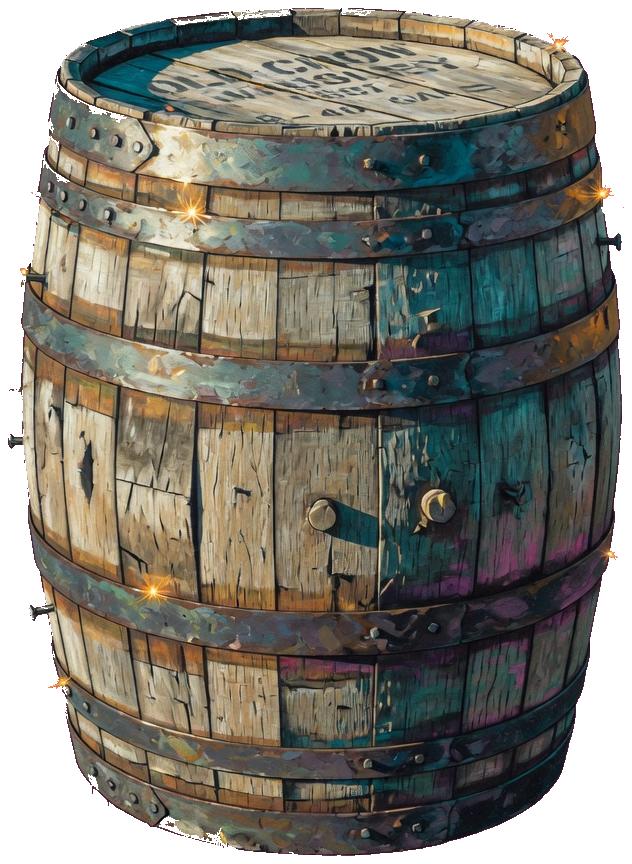
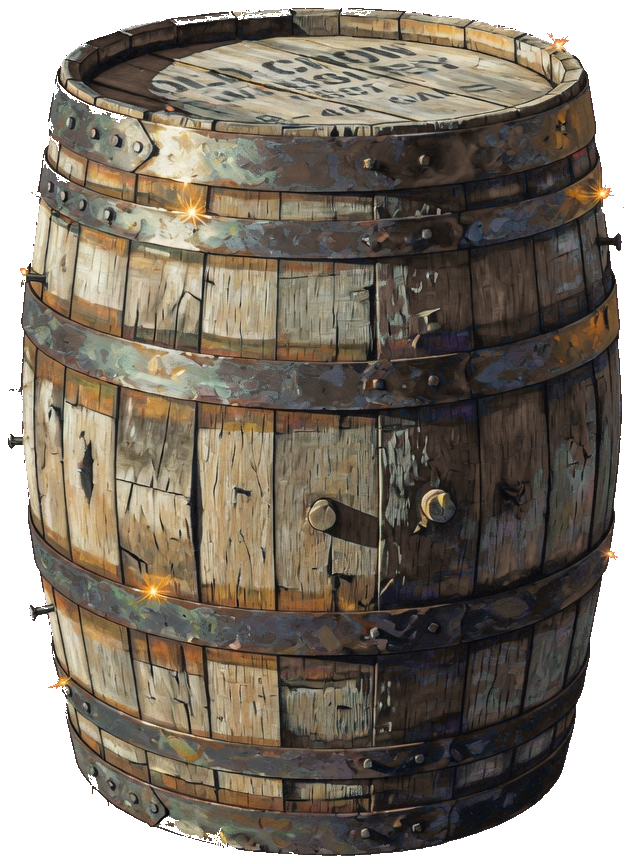
Hands-on tutorial for the draw and the bank shot; ground the outlaws; tame garish sprite colours
- Ghost thumb demo on streets I and II; nobody draws until you touch
- WILL HIT label drawn on the target while aiming
- Backdrops framed so the street meets the outlaws' boots
- Magenta/teal/neon-orange pulled out of props and outlaw sprites (originals in assets/_orig)

diff --git a/js/game.js b/js/game.js
@@ -189,6 +189,7 @@
     stash: null,
     installPrompt: null,
     coached: false,
+    bounceCoached: false,
     gunsmith: "blued",
     tumbleweeds: [],
     tumbleweedTimer: 3.2,
@@ -222,6 +223,7 @@
       state.stars = Array.isArray(s.stars) ? s.stars : [];
       if (s.run && typeof s.run.level === "number") state.run = s.run;
       state.coached = !!(s.coached || (s.unlocked || 0) > 0);
+      state.bounceCoached = !!(s.bounceCoached || (s.unlocked || 0) > 1);
       state.gunsmith = localStorage.getItem("gw.save.gunsmith") || "blued";
       state.bounty.highBounty = parseInt(localStorage.getItem("gw.save.bounty") || "0", 10);
       state.stats = s.stats && typeof s.stats === "object" ? s.stats : {};
@@ -292,6 +294,7 @@
           stars: state.stars,
           run: state.run,
           coached: state.coached,
+          bounceCoached: state.bounceCoached,
           stats: state.stats,
           posters: state.posters,
           daily: state.dailySave,
@@ -1391,18 +1394,31 @@
   }
 
   function needsCoach() {
-    return !state.coached && !state.replay && state.level === 0;
+    return !state.daily && !state.replay && ((!state.coached && state.level === 0) || needsBounceCoach());
+  }
+
+  // Street II teaches the bank shot the same way street I teaches the draw.
+  function needsBounceCoach() {
+    return !state.bounceCoached && !state.daily && !state.replay && state.level === 1;
   }
 
   function markCoached() {
-    if (state.coached) return;
+    if (state.coached && !needsBounceCoach()) return;
+    if (state.level === 1) state.bounceCoached = true;
     state.coached = true;
     save();
   }
 
   function showCoach(on) {
     const el = $("coach");
-    if (el) el.hidden = !on;
+    if (!el) return;
+    el.hidden = !on;
+    if (!on) return;
+    const bounce = needsBounceCoach();
+    $("coach-title").textContent = bounce ? "BOUNCE IT" : "HOLD AND DRAG";
+    $("coach-sub").textContent = bounce
+      ? "The crate blocks a straight shot. Drag the line onto the pan and it bounces into him."
+      : "Put your thumb down and drag the gold line onto the outlaw. Let go to shoot.";
   }
 
   function goHome() {
@@ -1852,7 +1868,8 @@
       audio.stopHeart();
     }
 
-    if ((state.mode === "fight" || state.mode === "bounty") && !state.bullet && $("overlay-how").hidden) {
+    // Nobody draws on you while the lesson is still on screen.
+    if ((state.mode === "fight" || state.mode === "bounty") && !state.bullet && $("overlay-how").hidden && !needsCoach()) {
       for (const e of living()) {
         if (e.hidden) continue;
         e.drawT += wdt;
@@ -2051,7 +2068,7 @@
     ctx.save();
     ctx.translate(farX, farY);
     const bg = gimg(L.bg);
-    if (bg) ctx.drawImage(bg, -36, -36, VW + 72, VH + 72);
+    if (bg) drawStreetBg(bg);
     else {
       const g = ctx.createLinearGradient(0, 0, 0, VH);
       g.addColorStop(0, "#6a3118");
@@ -2092,6 +2109,28 @@
     ctx.strokeStyle = "rgba(232, 195, 106, 0.12)";
     ctx.lineWidth = 2;
     ctx.strokeRect(10, 10, VW - 20, VH - 20);
+  }
+
+  // The painted streets put the horizon mid-screen, but the outlaws stand in
+  // the top third. Zoom the backdrop so the far end of the street rises to
+  // meet their boots instead of leaving them standing on the sky.
+  // zoom: how far to blow the painting up; horizon: its height in the
+  // painting (0..1); ground: where that horizon lands on the 1280 stage.
+  const BG_FRAME = {
+    street: { zoom: 1.36, horizon: 0.41, ground: 300 },
+    saloon: { zoom: 1.36, horizon: 0.41, ground: 300 },
+    gallows: { zoom: 1.36, horizon: 0.41, ground: 300 },
+    canyon: { zoom: 1.5, horizon: 0.43, ground: 230 },
+    depot: { zoom: 1.5, horizon: 0.43, ground: 230 },
+  };
+
+  function drawStreetBg(img) {
+    const f = BG_FRAME[gradeKey] || BG_FRAME.street;
+    const w = (VW + 72) * f.zoom;
+    const h = (VH + 72) * f.zoom;
+    const x = (VW - w) / 2;
+    const y = Math.min(-36, f.ground - f.horizon * h);
+    ctx.drawImage(img, x, Math.max(y, VH + 36 - h), w, h);
   }
 
   function drawShadow(x, y, rx, ry, a) {
@@ -2485,6 +2524,69 @@
     }
   }
 
+  function sightLabel(x, y, text, a) {
+    sctx.save();
+    sctx.globalAlpha = a;
+    sctx.font = "700 34px Cinzel, serif";
+    sctx.textAlign = "center";
+    sctx.textBaseline = "middle";
+    sctx.lineWidth = 7;
+    sctx.strokeStyle = "rgba(20, 10, 6, 0.85)";
+    sctx.strokeText(text, clamp(x, 150, VW - 150), y);
+    sctx.fillStyle = "#ffe7a0";
+    sctx.fillText(text, clamp(x, 150, VW - 150), y);
+    sctx.restore();
+  }
+
+  // A ghost thumb that shows the move: press, drag the line onto the target,
+  // let go. Loops until the player first touches the screen.
+  function drawCoachDemo() {
+    const foe = living().find((e) => !e.hidden);
+    if (!foe) return;
+    const head = { x: foe.x, y: foe.y - 90 * 0.92 * (foe.s || 1) };
+    const pan = needsBounceCoach() ? state.entities.find((e) => e.type === "pan") : null;
+    const goal = pan ? { x: pan.x, y: pan.y } : head;
+    const m = state.muzzle;
+    const start = { x: 360, y: 980 };
+    const t = (performance.now() / 2600) % 1;
+    const k = t < 0.15 ? 0 : t < 0.6 ? easeInOut((t - 0.15) / 0.45) : 1;
+    const f = { x: start.x + (goal.x - start.x) * k, y: start.y + (goal.y - start.y) * k };
+    const fade = t > 0.88 ? 1 - (t - 0.88) / 0.12 : Math.min(1, t / 0.08);
+
+    // the line runs from the gun through the thumb
+    const dx = f.x - m.x;
+    const dy = f.y - m.y;
+    const len = Math.hypot(dx, dy) || 1;
+    const reach = k >= 1 ? len : len + 260;
+    const tip = { x: m.x + (dx / len) * reach, y: m.y + (dy / len) * reach };
+    strokePoly(sctx, [m, tip], 0.85 * fade);
+    if (pan && k >= 1) strokePoly(sctx, [goal, head], 0.85 * fade, true);
+
+    // thumb
+    const press = t < 0.15 ? t / 0.15 : 1;
+    sctx.save();
+    sctx.globalAlpha = fade;
+    sctx.fillStyle = "rgba(255, 240, 200, 0.22)";
+    sctx.strokeStyle = "#fff4c8";
+    sctx.lineWidth = 3;
+    sctx.beginPath();
+    sctx.arc(f.x, f.y, 44 - 10 * press, 0, Math.PI * 2);
+    sctx.fill();
+    sctx.stroke();
+    sctx.beginPath();
+    sctx.arc(f.x, f.y, 14, 0, Math.PI * 2);
+    sctx.fillStyle = "#fff4c8";
+    sctx.fill();
+    sctx.restore();
+
+    if (k >= 1) sightLabel(head.x, head.y - 150, pan ? "BOUNCE WILL HIT" : "WILL HIT", fade);
+    if (t > 0.78 && t < 0.92) sightLabel(f.x, f.y + 80, "LET GO!", 1 - Math.abs(t - 0.85) / 0.07);
+  }
+
+  function easeInOut(x) {
+    return x < 0.5 ? 2 * x * x : 1 - Math.pow(-2 * x + 2, 2) / 2;
+  }
+
   // The aim layer is wiped only when something was drawn on it.
   let sightDirty = true;
 
@@ -2499,7 +2601,8 @@
     if (!sctx || !sight) return;
     clearSight();
     if (state.mode !== "fight" && state.mode !== "bounty") return;
-    if (!state.aiming && !state.ghost) return;
+    const demo = !state.aiming && !state.bullet && needsCoach();
+    if (!state.aiming && !state.ghost && !demo) return;
     sightDirty = true;
     const v = state.view;
     const cam = state.cam;
@@ -2508,6 +2611,10 @@
     sctx.rotate(cam.roll);
     sctx.scale(cam.z, cam.z);
     sctx.translate(-cam.x, -cam.y);
+    if (demo) {
+      drawCoachDemo();
+      return;
+    }
     if (state.aiming) {
       drawPath(sctx);
     } else if (state.ghost) {
@@ -2524,6 +2631,7 @@
           sctx.arc(b.ent.x, b.ent.y - 110 * (b.ent.s || 1), 52, 0, Math.PI * 2);
           sctx.stroke();
           sctx.restore();
+          sightLabel(b.ent.x, b.ent.y - 110 * (b.ent.s || 1) - 74, state.preview.bounces ? "BOUNCE WILL HIT" : "WILL HIT", 1);
         } else if (b.tag === "tumbleweed" || b.tumbleweed) {
           const tw = b.tumbleweed;
           sctx.save();

diff --git a/css/game.css b/css/game.css
@@ -199,7 +199,7 @@ canvas#sight {
   right: 12px;
   bottom: calc(126px + var(--safe-bot));
   text-align: center;
-  font-size: 12px;
+  font-size: 15px;
   letter-spacing: 0.28em;
   color: var(--gold);
   opacity: 0.55;
@@ -210,8 +210,9 @@ canvas#sight {
   position: absolute;
   left: 18px;
   right: 18px;
-  top: 48%;
-  transform: translateY(-50%);
+  bottom: calc(150px + var(--safe-bot));
+  padding: 14px 12px;
+  background: radial-gradient(ellipse at center, rgba(16, 10, 7, 0.72) 0%, rgba(16, 10, 7, 0) 72%);
   text-align: center;
   pointer-events: none;
   z-index: 5;
@@ -219,22 +220,6 @@ canvas#sight {
 
 #coach[hidden] { display: none !important; }
 
-.coach-pulse {
-  width: 68px;
-  height: 68px;
-  margin: 0 auto 14px;
-  border-radius: 50%;
-  border: 3px solid var(--gold);
-  background: rgba(232, 195, 106, 0.16);
-  box-shadow: 0 0 0 0 rgba(232, 195, 106, 0.45);
-  animation: coachPulse 1.35s ease-out infinite;
-}
-
-@keyframes coachPulse {
-  0% { transform: scale(0.84); box-shadow: 0 0 0 0 rgba(232, 195, 106, 0.5); }
-  70% { transform: scale(1); box-shadow: 0 0 0 22px rgba(232, 195, 106, 0); }
-  100% { transform: scale(0.84); box-shadow: 0 0 0 0 rgba(232, 195, 106, 0); }
-}
 
 .coach-kicker {
   margin: 0 0 6px;

diff --git a/index.html b/index.html
@@ -98,10 +98,9 @@
           <div id="hint"></div>
           <div id="hold-cue">TAP AND HOLD</div>
           <div id="coach" hidden>
-            <div class="coach-pulse" aria-hidden="true"></div>
             <p class="coach-kicker">HOW TO PLAY</p>
-            <p class="coach-title">TAP AND HOLD</p>
-            <p class="coach-sub">Drag until it says WILL HIT. Let go.</p>
+            <p class="coach-title" id="coach-title">HOLD AND DRAG</p>
+            <p class="coach-sub" id="coach-sub">Put your thumb down and drag the gold line onto the outlaw. Let go to shoot.</p>
           </div>
           <div id="cylinder-wrap" title="Tap to reload">
             <canvas id="cylinder" width="184" height="184"></canvas>

diff --git a/tools/regrade_props.py b/tools/regrade_props.py
@@ -1,0 +1,78 @@
+#!/usr/bin/env python3
+"""Pull the stray magenta / teal / neon-orange out of the sprites so they sit in
+the dusty palette of the painted streets. Originals are kept in assets/_orig."""
+import os, shutil, sys
+import numpy as np
+from PIL import Image
+
+ROOT = os.path.join(os.path.dirname(__file__), "..", "assets")
+ORIG = os.path.join(ROOT, "_orig")
+
+# file -> which hues to tame
+JOBS = {
+    "props/crate": ("magenta", "teal", "orange"),
+    "props/barrel": ("magenta", "teal"),
+    "props/pan": ("magenta",),
+    "props/sign": ("magenta",),
+    "characters/revolver": ("magenta",),
+    "characters/outlaw": ("magenta",),
+    "characters/outlaw-dead": ("magenta",),
+    "characters/outlaw-draw": ("magenta",),
+}
+BANDS = {"magenta": (0.76, 0.99), "teal": (0.40, 0.58), "orange": (0.04, 0.12)}
+RUST = 0.065  # hue of weathered wood / rust
+
+
+def rgb_to_hsv(rgb):
+    r, g, b = rgb[..., 0], rgb[..., 1], rgb[..., 2]
+    mx = rgb.max(-1); mn = rgb.min(-1); d = mx - mn
+    h = np.zeros_like(mx)
+    m = d > 1e-6
+    rc = np.where(m, (mx - r) / np.where(m, d, 1), 0)
+    gc = np.where(m, (mx - g) / np.where(m, d, 1), 0)
+    bc = np.where(m, (mx - b) / np.where(m, d, 1), 0)
+    h = np.where(r == mx, bc - gc, np.where(g == mx, 2 + rc - bc, 4 + gc - rc))
+    h = np.where(m, (h / 6) % 1, 0)
+    s = np.where(mx > 0, d / np.where(mx > 0, mx, 1), 0)
+    return h, s, mx
+
+
+def hsv_to_rgb(h, s, v):
+    i = np.floor(h * 6).astype(int) % 6
+    f = h * 6 - np.floor(h * 6)
+    p, q, t = v * (1 - s), v * (1 - s * f), v * (1 - s * (1 - f))
+    out = np.stack([np.choose(i, [v, q, p, p, t, v]), np.choose(i, [t, v, v, q, p, p]), np.choose(i, [p, p, t, v, v, q])], -1)
+    return out
+
+
+def regrade(path, bands):
+    im = Image.open(path).convert("RGBA")
+    a = np.asarray(im).astype(np.float32) / 255
+    h, s, v = rgb_to_hsv(a[..., :3])
+    hit = np.zeros(h.shape, bool)
+    for name in bands:
+        lo, hi = BANDS[name]
+        sat_floor = {"orange": 0.5, "teal": 0.12, "magenta": 0.15}[name]
+        hit |= (h >= lo) & (h <= hi) & (s > sat_floor)
+    h2 = np.where(hit, RUST, h)
+    s2 = np.where(hit, np.minimum(s, 0.38) * 0.8, s)
+    v2 = np.where(hit, v * 0.82, v)
+    a[..., :3] = hsv_to_rgb(h2, s2, v2)
+    return Image.fromarray((np.clip(a, 0, 1) * 255).astype(np.uint8), "RGBA"), hit.mean()
+
+
+for key, bands in JOBS.items():
+    for ext in ("webp", "png"):
+        src = os.path.join(ROOT, key + "." + ext)
+        if not os.path.exists(src):
+            continue
+        keep = os.path.join(ORIG, key + "." + ext)
+        os.makedirs(os.path.dirname(keep), exist_ok=True)
+        if not os.path.exists(keep):
+            shutil.copy2(src, keep)
+        out, frac = regrade(keep, bands)
+        if ext == "webp":
+            out.save(src, "WEBP", quality=88, method=6)
+        else:
+            out.save(src, "PNG", optimize=True)
+        print(f"{key}.{ext}: recoloured {frac * 100:.1f}% of pixels")
